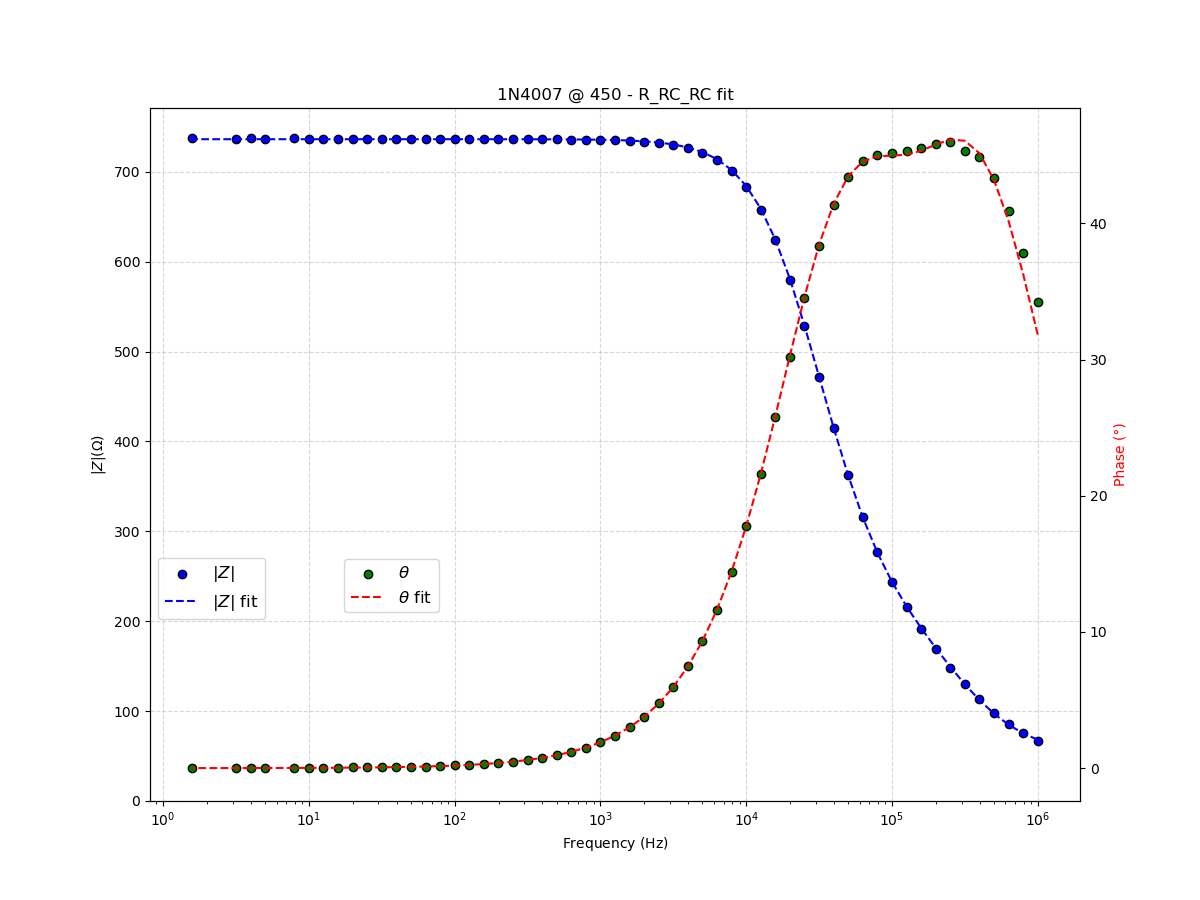
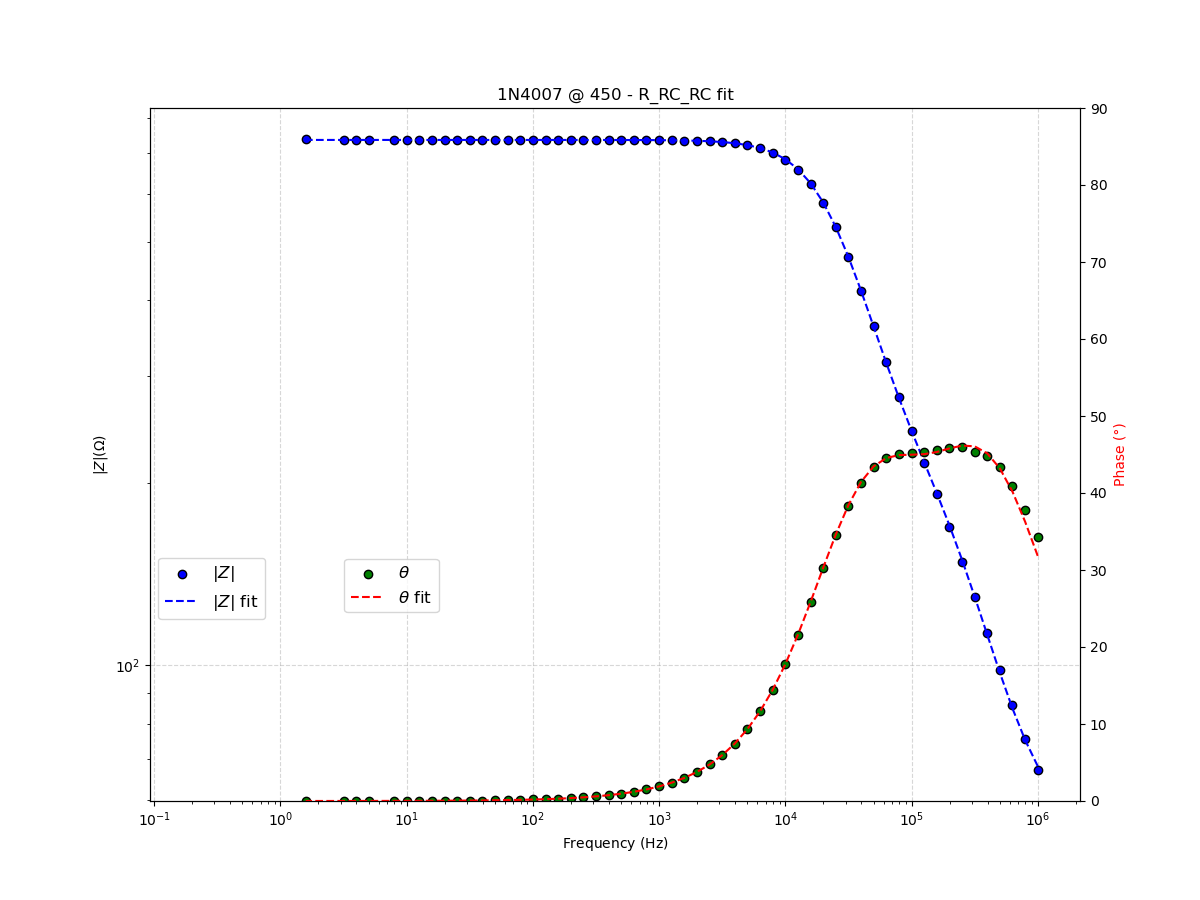
pre split

diff --git a/utils.py b/utils.py
@@ -21,15 +21,68 @@ def format_param_latex(p):
     return formatted_number
 
 
-def plot_bodeplot(x, Z, theta, fit, params, model, title="Bodeplot Fit"):
-    if not params.success:
-        logging.info(f"Fit failed: {params.message}")
+def get_impedance_data(filepath):
+    df = pd.read_csv(filepath, skiprows=3, sep=', ', engine='python')
+    df = df[df["Frequency (Hz)"].notna()]
+    freq = np.array(df["Frequency (Hz)"])
+    Z = np.array(df["Z' (Ohm)"]) + np.array(df["Z'' (Ohm)"]) * 1j
+    freq, Z = preprocessing.ignoreBelowX(freq, Z)
+    theta = np.abs(np.angle(Z, deg=True))
+    return freq, Z, theta
 
-    theta_fit = np.abs(np.angle(fit, deg=True))
 
+def plot_impedance_fit(x, data, fit, params, model, title="Impedance Fit"):
     plt.style.use('seaborn-v0_8-colorblind')
     fig, ax = plt.subplots(figsize=(12, 9))
+    scatter = ax.scatter(
+        data.real,
+        -data.imag,
+        label="Impedance Data",
+        c=x,
+        cmap='rainbow_r',
+        ec='k',
+        vmin=1, vmax=1e6,
+        zorder=2
+    )
+    xerr = 0.01 * np.abs(data.real)
+    yerr = 0.01 * np.abs(data.imag)
+    ax.errorbar(
+        data.real,
+        -data.imag,
+        xerr=xerr,
+        yerr=yerr,
+        ecolor='k',
+        elinewidth=0.5,
+        capsize=2,
+        fmt='none',
+        zorder=1
+    )
+    ax.plot(fit.real, -fit.imag, label="Best Fit", ls='--', c='red')
+    cbar = plt.colorbar(scatter, ax=ax, extend='both')
+    cbar.set_label(r'$\text{Frequency (Hz)}$', rotation=0, labelpad=20)
+    text = ""
+    for param_name, param_unit, param in zip(model.params_names, model.params_units, params.x):
+        param = format_param_latex(param)
+        text += f"${param_name}={param} {param_unit}$\n"
+    text = text.strip()
+    props = dict(boxstyle='round', fc='white',
+                 ec='blue', lw=2, pad=1, alpha=0.5)
+    ax.text(0.42, 0.30, text, transform=ax.transAxes, fontsize=10,
+            verticalalignment='top', bbox=props)
+    ax.set_title(title)
+    ax.set_xlabel(r"$Z_\text{Re} (\Omega)$")
+    ax.set_ylabel(r"$-Z_\text{Im} (\Omega)$")
+    ax.set_ylim(bottom=0)
+    ax.grid(True, alpha=0.5, linestyle='--')
+    ax.legend(loc='upper left', fontsize=12)
+    fig.savefig(f"plots/bias_scan/{title}.png")
+    # fig.savefig(f"plots/bias_scan/{title}.svg")
+    plt.close(fig)
 
+
+def plot_bodeplot(x, Z, theta, fit, params, model, title="Bodeplot Fit"):
+    plt.style.use('seaborn-v0_8-colorblind')
+    fig, ax = plt.subplots(figsize=(12, 9))
     ax.scatter(
         x,
         np.abs(Z),
@@ -38,9 +91,26 @@ def plot_bodeplot(x, Z, theta, fit, params, model, title="Bodeplot Fit"):
         ec='k',
         zorder=2
     )
+    ax.plot(x, np.abs(fit), label=r"$|Z|$ fit", ls='--', c='blue')
+    ax.set_title(title)
+    ax.set_xlabel(r"$\text{Frequency (Hz)}$")
+    ax.set_ylabel(r"$|Z| (\Omega)$")
+    ax.set_xscale('log')
+    ax.set_yscale('log')
+    # ax.set_ylim(bottom=0)
+    # ax.set_yticks(
+    #     np.linspace(
+    #         ax.get_yticks()[0],
+    #         ax.get_yticks()[-1],
+    #         13
+    #     )
+    # )
+    # ax.grid(True, alpha=0.5, linestyle='--')
+    ax.legend(loc='lower left', bbox_to_anchor=(0.0, 0.25), fontsize=12)
+
+    theta_fit = np.abs(np.angle(fit, deg=True))
     ax2 = ax.twinx()
     ax2.set_ylabel('Phase (°)', color='red')
-
     ax2.scatter(
         x,
         theta,
@@ -49,10 +119,7 @@ def plot_bodeplot(x, Z, theta, fit, params, model, title="Bodeplot Fit"):
         ec='k',
         zorder=2
     )
-
-    ax.plot(x, np.abs(fit), label=r"$|Z|$ fit", ls='--', c='blue')
     ax2.plot(x, theta_fit, label=r"$\theta$ fit", ls='--', c='red')
-
     yerr = 0.1
     ax2.errorbar(
         x,
@@ -65,93 +132,20 @@ def plot_bodeplot(x, Z, theta, fit, params, model, title="Bodeplot Fit"):
         fmt='none',
         zorder=1
     )
-
-    ax.set_title(title)
-    ax.set_xlabel(r"$\text{Frequency (Hz)}$")
-    ax.set_ylabel(r"$|Z| (\Omega)$")
-    ax.set_xscale('log')
-    # ax.set_yscale('log')
+    ax2.set_ylim(0, 90)
+    ax2.set_yticks(
+        np.linspace(
+            ax2.get_yticks()[0],
+            ax2.get_yticks()[-1],
+            10
+        )
+    )
     ax.grid(True, alpha=0.5, linestyle='--')
 
-    ax.set_ylim(bottom=0)
-
-    ax.legend(loc='lower left', bbox_to_anchor=(0.0, 0.25), fontsize=12)
     ax2.legend(loc='lower left', bbox_to_anchor=(0.2, 0.26), fontsize=12)
 
     fig.savefig(f"plots/bias_scan/{title}_bode.png")
     # fig.savefig(f"plots/bodeplot/{title}.svg")
-    plt.close(fig)
-
-
-def get_impedance_data(filepath):
-    df = pd.read_csv(filepath, skiprows=3, sep=', ', engine='python')
-    df = df[df["Frequency (Hz)"].notna()]
-    freq = np.array(df["Frequency (Hz)"])
-    Z = np.array(df["Z' (Ohm)"]) + np.array(df["Z'' (Ohm)"]) * 1j
-    freq, Z = preprocessing.ignoreBelowX(freq, Z)
-    theta = np.abs(np.angle(Z, deg=True))
-    return freq, Z, theta
-
-
-def plot_impedance_fit(x, data, fit, params, model, title="Impedance Fit"):
-    if not params.success:
-        logging.info(f"Fit failed: {params.message}")
-
-    data = data.real - data.imag * 1j
-    fit = fit.real - fit.imag * 1j
-
-    plt.style.use('seaborn-v0_8-colorblind')
-    fig, ax = plt.subplots(figsize=(12, 9))
-
-    scatter = ax.scatter(
-        data.real,
-        data.imag,
-        label="Impedance Data",
-        c=x,
-        cmap='rainbow_r',
-        ec='k',
-        vmin=1, vmax=1e6,
-        zorder=2
-    )
-    xerr = 0.01 * np.abs(data.real)
-    yerr = 0.01 * np.abs(data.imag)
-    ax.errorbar(
-        data.real,
-        data.imag,
-        xerr=xerr,
-        yerr=yerr,
-        ecolor='k',
-        elinewidth=0.5,
-        capsize=2,
-        fmt='none',
-        zorder=1
-    )
-
-    ax.plot(fit.real, fit.imag, label="Best Fit", ls='--', c='red')
-
-    cbar = plt.colorbar(scatter, ax=ax, extend='both')
-    cbar.set_label(r'$\text{Frequency (Hz)}$', rotation=0, labelpad=20)
-
-    text = ""
-    for param_name, param_unit, param in zip(model.params_names, model.params_units, params.x):
-        param = format_param_latex(param)
-        text += f"${param_name}={param} {param_unit}$\n"
-    text = text.strip()
-    props = dict(boxstyle='round', fc='white',
-                 ec='blue', lw=2, pad=1, alpha=0.5)
-    ax.text(0.42, 0.30, text, transform=ax.transAxes, fontsize=10,
-            verticalalignment='top', bbox=props)
-
-    ax.set_title(title)
-    ax.set_xlabel(r"$Z_\text{Re} (\Omega)$")
-    ax.set_ylabel(r"$-Z_\text{Im} (\Omega)$")
-    ax.set_ylim(bottom=0)
-    ax.grid(True, alpha=0.5, linestyle='--')
-
-    ax.legend(loc='upper left', fontsize=12)
-
-    fig.savefig(f"plots/bias_scan/{title}.png")
-    # fig.savefig(f"plots/bias_scan/{title}.svg")
     plt.close(fig)
 
 
@@ -177,6 +171,7 @@ def fit_diode(diode, date, exp_type, models, sigma=0.1, convergence_threshold=30
                 convergence_threshold=convergence_threshold
             )
             chi2_pvalue = chi2_test_pvalue_phase(Z, fit, model, params)
+            logging.info(f"Fit failed: {params.message}")
             logging.info(
                 f"{diode} @ {bias} with {model.name}: p-value = {chi2_pvalue:.6e} < 0.05"
             )

diff --git a/fit.py b/fit.py
@@ -1,7 +1,6 @@
 import numpy as np
 from scipy.optimize import least_squares
 from scipy.stats import chi2
-import time
 
 
 def residuals(params, x, data, model) -> np.ndarray:
@@ -103,7 +102,6 @@ def chi2_test_pvalue(data, data_fit, model, params_fit) -> float:
     dof = len(data) * 2 - model.params_num
     p_value = 1 - chi2.cdf(chi2_val, dof)
     return p_value
-
 
 def chi2_test_pvalue_phase(data, data_fit, model, params_fit) -> float:
     res = residuals_phase(params_fit.x, data, data_fit, model)
